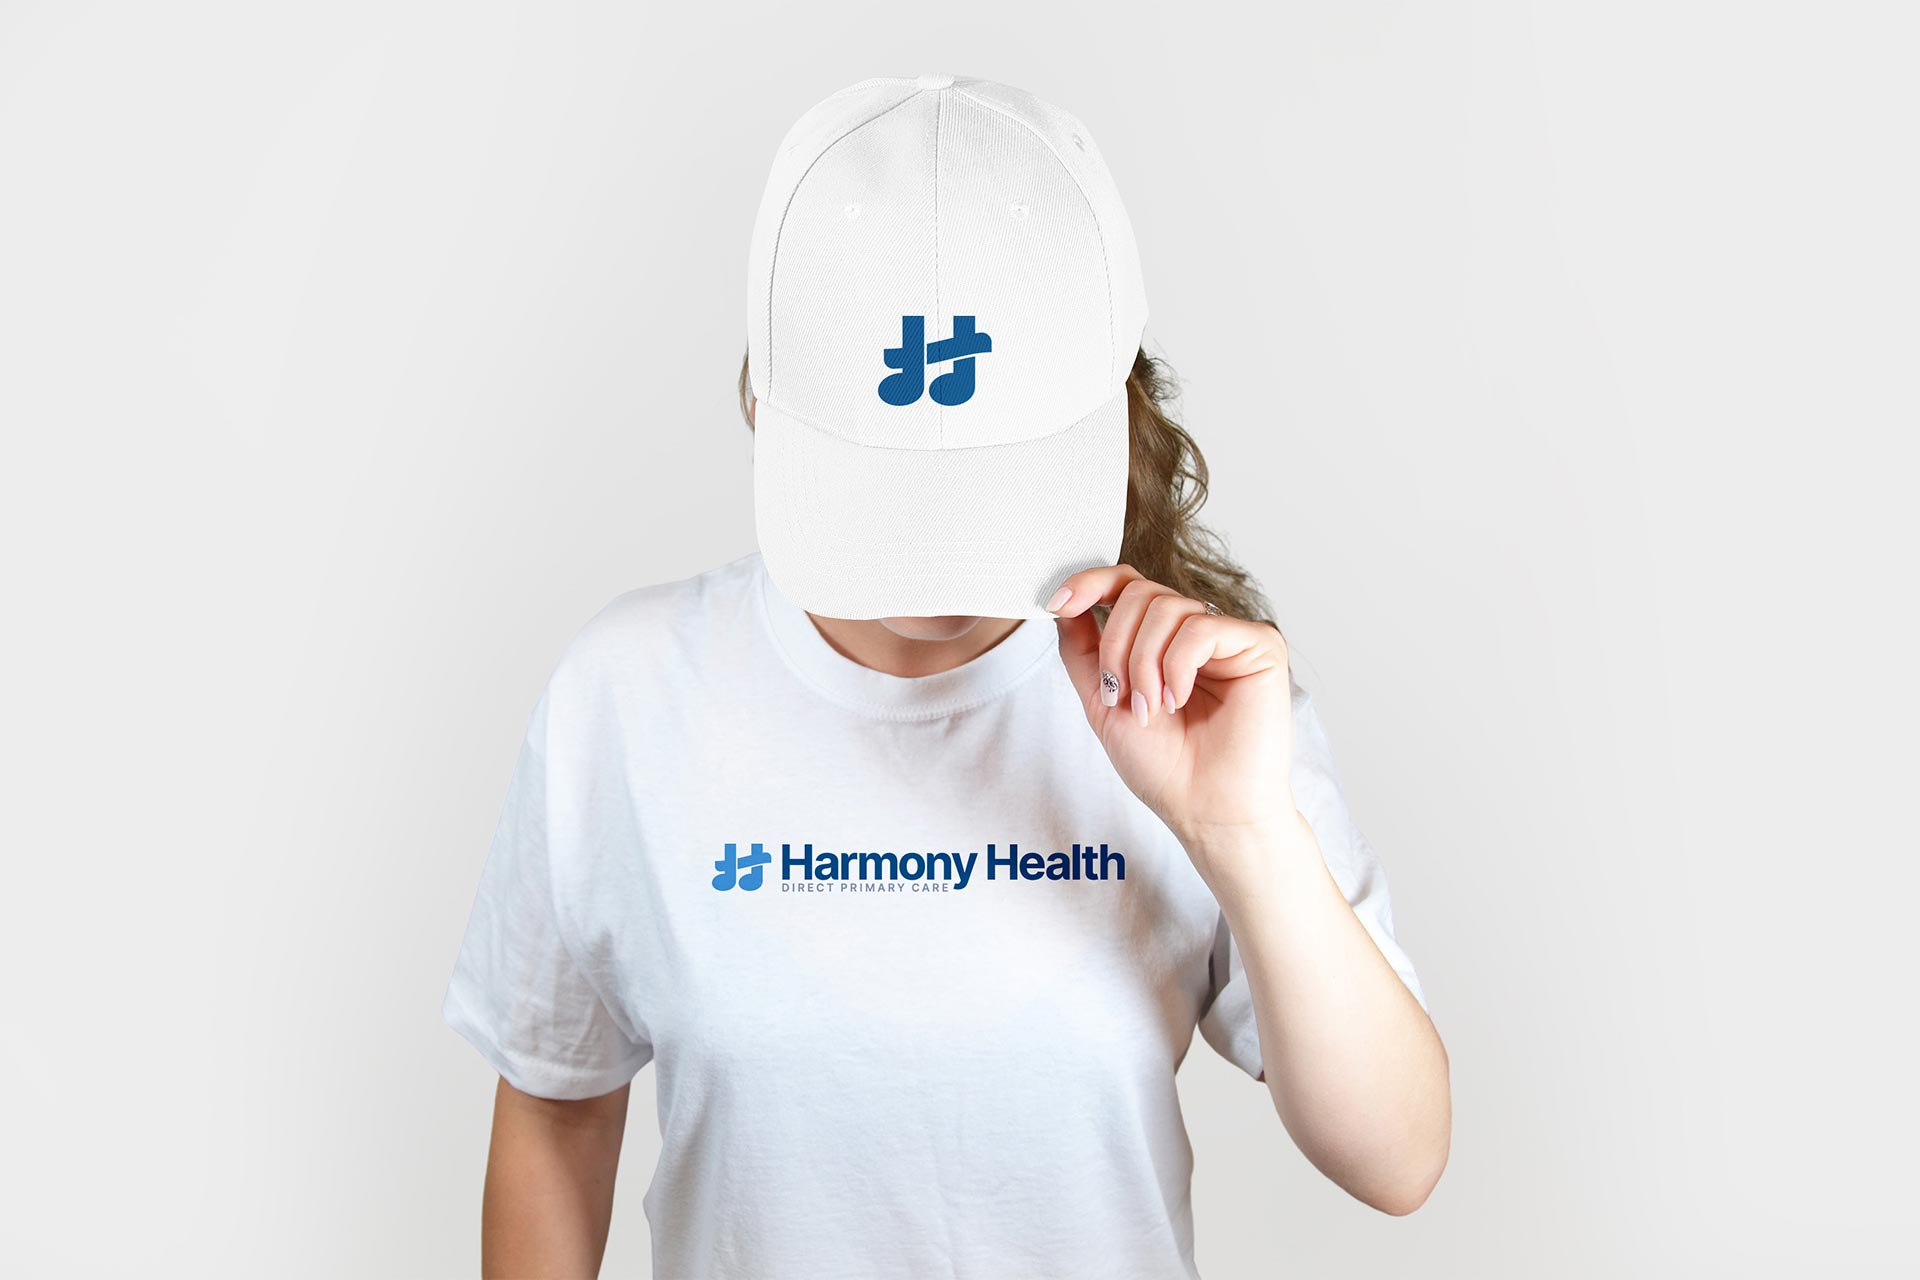
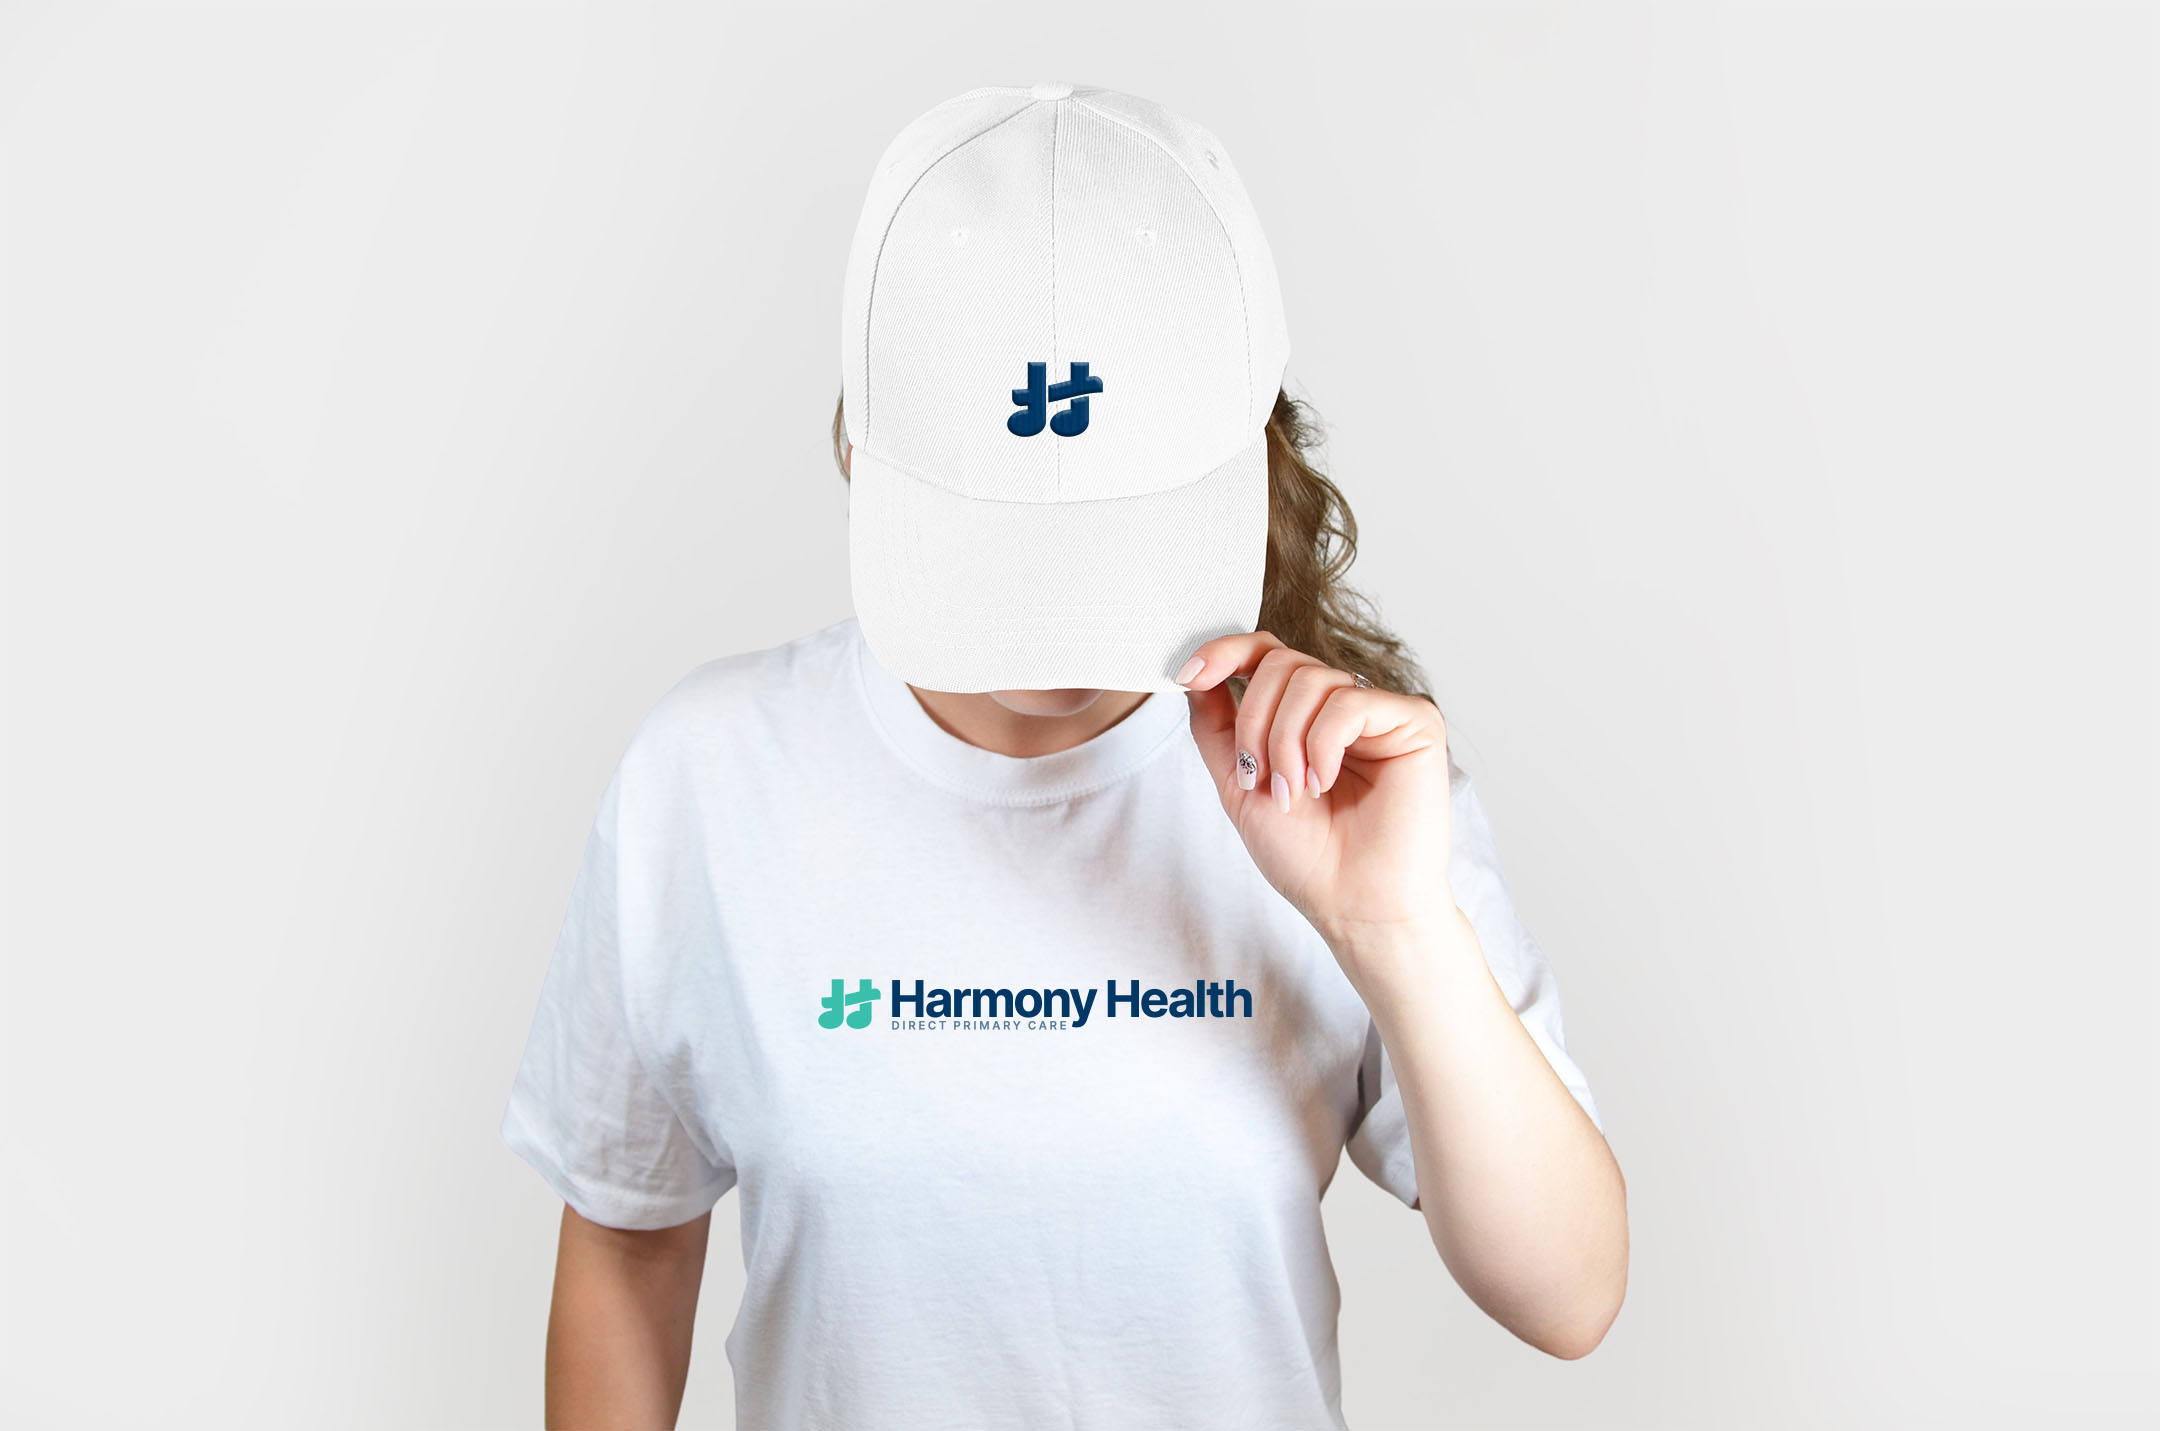
publish harmony health case study

diff --git a/_src/design/afghanistan special report.md b/_src/design/afghanistan special report.md
@@ -7,8 +7,6 @@ tags:
   - Mailer
   - Multi-Piece
   - Print
-badges:
-  - New
 links:
   Learn about VOM: //vom.org
 # draft: true
@@ -16,52 +14,69 @@ links:
 
 {% from "macros.njk" import video %}
 
-
 ## Objective
 
-The Voice of the Martyrs works in the worlds most difficult mission fields, but some nations are almost impossible to access for Christians outside the borders. At this moment in history, Afghanistan is one such nation.
+The Voice of the Martyrs works in the worlds most difficult mission fields, but
+some nations are almost impossible to access for Christians outside the borders.
+At this moment in history, Afghanistan is one such nation.
 
-My goal was to design a package for mailing that illustrated what the written stories described: **_cold isolation and looming danger for Christians inside the country._**
+My goal was to design a package for mailing that illustrated what the written
+stories described: **_cold isolation and looming danger for Christians inside
+the country._**
 
 {{ video("afghanistan-sr/opening.mp4") }}
-
 
 ## Project details
 
 This was a multi-piece mailing package comprised of:
+
 - 4-color no.10 envelope with an address window (coated)
 - 17 x 11 multi-fold piece (uncoated)
 - 8 1/2 x 11 tri-fold response device (uncoated)
 - Single-color no.9 business reply envelope
 
-
 ## Unique challenges
 
-VOM's visual language relies heavily on photography, aiming to bring readers into fellowship with their persecuted brothers and sisters in Christ. The media archive they maintain has over 1 million assets. However, the situation in Afghanistan made many of the photos in VOM's archive unsafe to publish. For approval to publish such photos, it takes between 1-2 weeks to get word from workers in the field.
+VOM's visual language relies heavily on photography, aiming to bring readers
+into fellowship with their persecuted brothers and sisters in Christ. The media
+archive they maintain has over 1 million assets. However, the situation in
+Afghanistan made many of the photos in VOM's archive unsafe to publish. For
+approval to publish such photos, it takes between 1-2 weeks to get word from
+workers in the field.
 
-> At the end of the day, there was only **one** safe-to-use photo of confirmed Christians in Aghanistan.
+> At the end of the day, there was only **one** safe-to-use photo of confirmed
+> Christians in Aghanistan.
 
 ![Inside Spread](/img/afghanistan-sr/interior-spread.jpg)
 
-
 ## Solutions
 
-By this point we were behind schedule, with only one medium-resolution photo available to use. I turned to representative photos, some from Afghanistan and some from the surrounding region. Finally, as a last resort, I pulled the final few images from stock resources like Unsplash.
+By this point we were behind schedule, with only one medium-resolution photo
+available to use. I turned to representative photos, some from Afghanistan and
+some from the surrounding region. Finally, as a last resort, I pulled the final
+few images from stock resources like Unsplash.
 
-I designed the report with photos, color, and layout choices which demonstrated how Christians are undeterred by the grim reality of Taliban control.
+I designed the report with photos, color, and layout choices which demonstrated
+how Christians are undeterred by the grim reality of Taliban control.
 
 ![Outside Spread](/img/afghanistan-sr/outside-spread.jpg)
 
-I also participated in an art-direction role to guide the design of [a landing page](//vom.org/2022-10-afghanistan), the digital version of this report. This helped additional readers experience the printed report within a web context.
+I also participated in an art-direction role to guide the design of
+[a landing page](//vom.org/2022-10-afghanistan), the digital version of this
+report. This helped additional readers experience the printed report within a
+web context.
 
 <div class="grid">
   <img alt="A screenshot from the hero section of the Afghanistan Special Report web page." src="/img/afghanistan-sr/web-top.jpg" />
   <img alt="A screenshot from the Afghanistan Special Report web page with an opportunity to give." src="/img/afghanistan-sr/web-bottom.jpg" />
 </div>
 
-
 ## Outcome
 
-The final design of the special report was enthusiastically approved by organizational leadership in July 2022. At this point, I began working with our team and vendor to print and produce the mailing. In October, it arrived in over 700,000 mailboxes across the US and internationally, bringing widespread awareness of God's work in Afghanistan to the larger body of Christ.
+The final design of the special report was enthusiastically approved by
+organizational leadership in July 2022. At this point, I began working with our
+team and vendor to print and produce the mailing. In October, it arrived in over
+700,000 mailboxes across the US and internationally, bringing widespread
+awareness of God's work in Afghanistan to the larger body of Christ.
 
 ![A completed gift slip being returned in a business-reply envelope](/img/afghanistan-sr/gift-slip.jpg)

diff --git a/_src/design/east texas elderberries.md b/_src/design/east texas elderberries.md
@@ -1,6 +1,6 @@
 ---
 title: East Texas Elderberries Branding
-image: /img/ete/family.jpg
+image: /img/ete/mailer-bag.jpg
 entity: Elderberry Farm
 order: 14
 tags:
@@ -10,42 +10,60 @@ tags:
 badges:
   - New
 links:
-  Check out East Texas Elderberries on Facebook: //vom.org
+  Check out East Texas Elderberries on Facebook: //facebook.com/EastTexasElderberries
 draft: true
 ---
 
 ## Goals
 
-The target market for East Texas Elderberries is families or businesses that want to create their own syrup or elderberry products. They sell elderberries in a frozen or dehydrated form and wanted a brand that could scale rapidly with production.
+The target market for East Texas Elderberries is families or businesses that
+want to create their own syrup or elderberry products. They sell elderberries in
+a frozen or dehydrated form and wanted a brand that could scale rapidly with
+production.
 
 ![A collection of boxes stamped with the East Texas Elderberries seal](/img/ete/boxes.jpg)
 
-> East Texas Elderberries expressed that they never wanted to lose sight of their orientation toward *family*.
+> East Texas Elderberries expressed that they never wanted to lose sight of
+> their orientation toward _family_.
 
-As I discovered more about this elderberry farm, it became clear that family and generational legacy were the heartbeat of the operation. That gave me a starting point, from which I looked to design something timeless, approachable, and durable.
+As I discovered more about this elderberry farm, it became clear that family and
+generational legacy were the heartbeat of the operation. That gave me a starting
+point, from which I looked to design something timeless, approachable, and
+durable.
 
 ![A mother teaching her daughter to plant crops in the soil.](/img/ete/family.jpg)
 
 ## From billboards to browsers
 
-This identity needed to adapt fluidly for every application. To solve this, I designed logo alternates, which would work at different scales: from as large as a billboard design to as small as a browser favicon.
+This identity needed to adapt fluidly for every application. To solve this, I
+designed logo alternates, which would work at different scales: from as large as
+a billboard design to as small as a browser favicon.
 
 ![Scale variations of the East Texas Elderberry Logo in red](/img/ete/scales-red.png){.light}
 ![Scale variations of the East Texas Elderberry Logo in white](/img/ete/scales-white.png){.dark}
 
-East Texas Elderberries wanted a way to reinforce their brand while interacting online. To help with that, I designed a set of icons to supplement content on their website. These icons were a great visual aid to catch and hold attention of potential customers.
+East Texas Elderberries wanted a way to reinforce their brand while interacting
+online. To help with that, I designed a set of icons to supplement content on
+their website. These icons were a great visual aid to catch and hold attention
+of potential customers.
 
-## Social media 
+## Social media
 
-This was an important place for East Texas Elderberries to put their best foot forward. On-brand ads were a must-have for catching the eyes of their target market. So, I got to work.
+This was an important place for East Texas Elderberries to put their best foot
+forward. On-brand ads were a must-have for catching the eyes of their target
+market. So, I got to work.
 
 ![An iPhone with a facebook ad for the business](/img/ete/fb-ad.png)
 
 ## Outcomes
 
-In the end, I helped East Texas Elderberries establish a brand identity that works in every area they needed. They are a family business that is well-equipped to look attractive and trustworthy for many generations to come.
+In the end, I helped East Texas Elderberries establish a brand identity that
+works in every area they needed. They are a family business that is
+well-equipped to look attractive and trustworthy for many generations to come.
 
 ![Two shopping paper bags, branded with the The East Texas Elderberries identity](/img/ete/sack.jpg)
 
-> "I had a wonderful experience with the team. The outstanding quality and the attention to detail was beyond compare. I highly recommend their services."
+> "I had a wonderful experience with the team. The outstanding quality and the
+> attention to detail was beyond compare. I highly recommend their services."
+>
 > - Ed Wells, CEO, East Texas Elderberries

diff --git a/_src/design/africa special report.md b/_src/design/africa special report.md
@@ -7,8 +7,6 @@ tags:
   - Mailer
   - Multi-Piece
   - Print
-badges:
-  - New
 links:
   Learn about VOM: //vom.org
 # draft: true
@@ -16,40 +14,52 @@ links:
 
 {% from "macros.njk" import video %}
 
-
 ## Objective
 
-In recent years, Christians in Africa have faced a rise in violence and persecution from Islamic extremist groups. Militant groups have gone to great lengths in attempts to stamp out church activities and evangelism in Africa. The stories of these believers needed to be shared with the global Church.
+In recent years, Christians in Africa have faced a rise in violence and
+persecution from Islamic extremist groups. Militant groups have gone to great
+lengths in attempts to stamp out church activities and evangelism in Africa. The
+stories of these believers needed to be shared with the global Church.
 
-Through the report's design, I wanted to show the energy and fervor with which Christianity is resisting and overcoming persecution in Africa.
-
+Through the report's design, I wanted to show the energy and fervor with which
+Christianity is resisting and overcoming persecution in Africa.
 
 {{ video("africa-sr/opening.mp4") }}
-
 
 ## Project details
 
 This was a multi-piece mailing package comprised of:
+
 - 4-color no.10 envelope with an address window (coated)
 - 17 x 11 multi-fold piece (uncoated)
 - 8 1/2 x 11 tri-fold response device (uncoated)
 - Single-color no.9 business reply envelope
 
-
 ## Unique challenges
 
-After final approval in September 2022, I started collaborating with our print vendor. Although the proofs looked good, I requested a second set of color proofs to make absolutely sure the natural color tones in the photography were dialed in. As part of this process, I used a color-calibrated monitor and proofing lightbox to make subtle tweaks for accuracy in the final product.
+After final approval in September 2022, I started collaborating with our print
+vendor. Although the proofs looked good, I requested a second set of color
+proofs to make absolutely sure the natural color tones in the photography were
+dialed in. As part of this process, I used a color-calibrated monitor and
+proofing lightbox to make subtle tweaks for accuracy in the final product.
 
 ![Inside Spread](/img/africa-sr/interior-spread.jpg)
 
 ![Outside Spread](/img/africa-sr/outside-spread.jpg)
 
-I also participated in an art-direction role to guide the design of [a landing page](//vom.org/2022-12-africa), the digital version of this report. This helped additional readers experience the printed report within a web context.
+I also participated in an art-direction role to guide the design of
+[a landing page](//vom.org/2022-12-africa), the digital version of this report.
+This helped additional readers experience the printed report within a web
+context.
 
 {{ video("africa-sr/web-animation.mp4") }}
 
 ## Outcome
 
-The final design of the special report was enthusiastically approved by organizational leadership in September 2022. At this point, I began working with our team and vendor to print and produce the mailing. In December, this report was mailed to roughly 500,000 recipients all over the world, showing how African Christians are standing firm in the face of Islamic extremism.
+The final design of the special report was enthusiastically approved by
+organizational leadership in September 2022. At this point, I began working with
+our team and vendor to print and produce the mailing. In December, this report
+was mailed to roughly 500,000 recipients all over the world, showing how African
+Christians are standing firm in the face of Islamic extremism.
 
 ![A screenshot from the hero section of the Africa Special Report web page](/img/africa-sr/web-mac.jpg)

diff --git a/_src/design/harmony health.md b/_src/design/harmony health.md
@@ -1,0 +1,46 @@
+---
+title: Harmony Health Branding
+entity: Medical Practice
+image: /img/harmony-health/clothing.jpg
+order: 14
+tags:
+  - Logo
+  - Identity
+badges:
+  - New
+links:
+  Learn more about Harmony Health: //harmonyhealthok.com
+---
+
+Harmony Health is a direct primary care practice in Newcastle, Oklahoma. Their
+brand messaging is summed up in their tagline.
+
+> “Optimal health comes from harmony of body, mind, and spirit.”
+
+I selected Inter, a modern, trustworthy typeface befitting of this small
+business. Some letterforms were tweaked to make the mark slightly more
+approachable for moms with an affinity for natural remedies.
+
+![The Harmony Health wordmark with glyph modifications highlighted.](/img/harmony-health/wordmark.png)
+
+By analyzing business goals and customer demographics, I was able to arrive at a
+logo identity which complements the Harmony Health message. Throughout the
+discovery process, music and sound emerged as the dominant theme.
+
+Although Harmony Health doesn't specialize in music therapy, the logo needed to
+include a musical element.
+
+![The logo icon on a white background.](/img/harmony-health/icon.png)
+
+![An iPhone with the Harmony Health logo loading screen.](/img/harmony-health/iphone.jpg)
+
+![An iMac with the Harmony Health website displayed.](/img/harmony-health/website.jpg)
+
+## Outcome
+
+In the end, Harmony Health, Direct Primary Care was able to successfully launch
+with an identity that serves well in their primarily digital contexts. The final
+mark is confident, bold, and balanced, showing that direct healthcare helps to
+harmonize every aspect of patient well-being.
+
+![A billboard ad targeting moms with an affinity for natural remedies.](/img/harmony-health/billboard.jpg)

diff --git a/_src/design/archive/osu ruf banner.md b/_src/design/archive/osu ruf banner.md
@@ -1,0 +1,31 @@
+---
+title: RUF Welcome Banner
+entity: OSU Reformed University Fellowship
+image: /img/osu-ruf-banner/hero.jpg
+order: 10
+tags:
+  - Banners
+  - Large Format
+draft: true
+---
+
+Reformed University Fellowships (RUF) are found on college campuses throughout
+the U.S., bringing students together for biblical teaching, authentic community,
+and rich discipleship.
+
+![Worship on a Tuesday night at Reformed University Fellowship](/img/osu-ruf-banner/worship.jpg)
+
+The goal of this project was to help welcome students into the RUF space at
+Oklahoma State University. The room alone, while set up for worship and
+teaching, didn't distinguish itself as the meeting location. For the OSU RUF in
+particular, symbolizing abstract concepts like community, worship, and
+discipleship posed a significant challenge. There is no one way to go about
+designing such a banner.
+
+![A wide view of the full-size banner in a dark room](/img/osu-ruf-banner/banner-dimensions.jpg)
+
+RUFs have used various forms of branding and visual language depending on which
+campus you visit and who the director is. That said, there was a relatively
+consistent use of this graphic shown at the top of the design.
+
+![A welcoming college student greeting you at the door to the OSU RUF](/img/osu-ruf-banner/door.jpg)

diff --git a/_src/design.md b/_src/design.md
@@ -7,11 +7,11 @@ menu:
   label: See my designs
 ---
 
-# Building brands
+# Home-grown brands
 
 My approach to design involves helping my friends and family stick to what
 they're amazing at. I take the guesswork out of branding and bring my experience
-to bear on your unique needs.
+to grow brands that fulfill your hopes and dreams.
 
 <div class="feed">
 {% set postsList = search.pages("type=designPost", site.sorting.Design) %}
